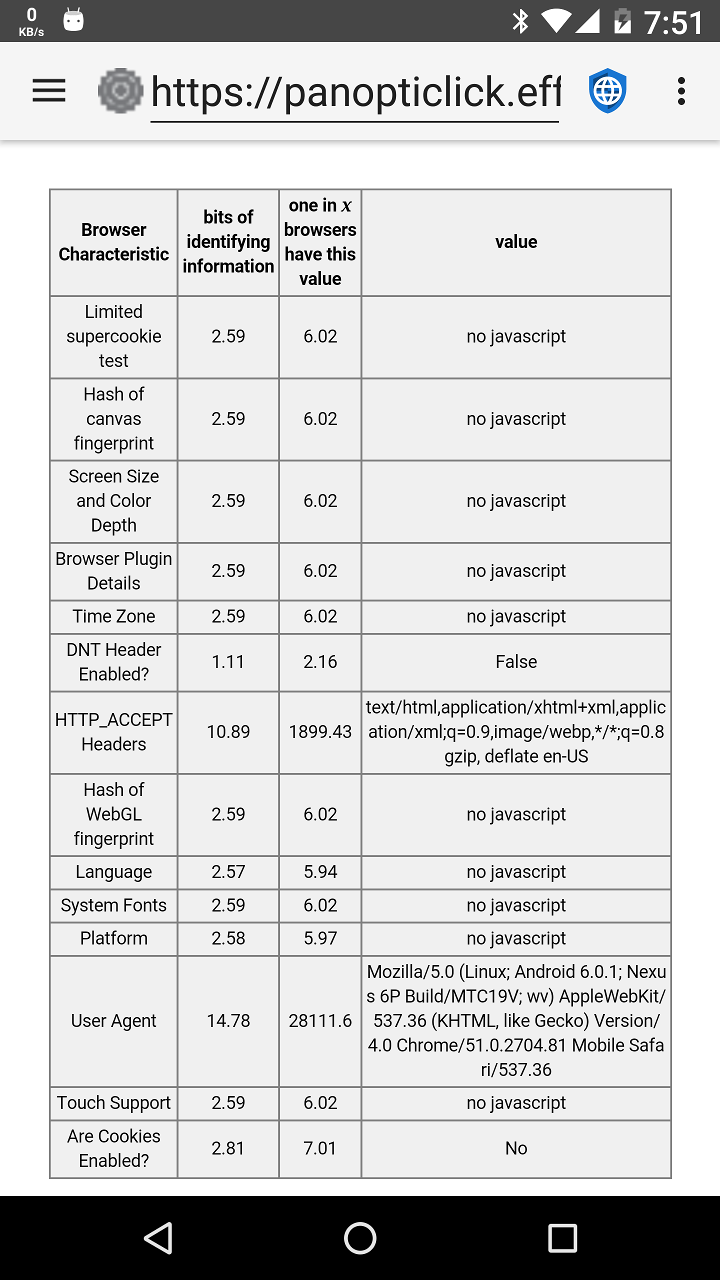
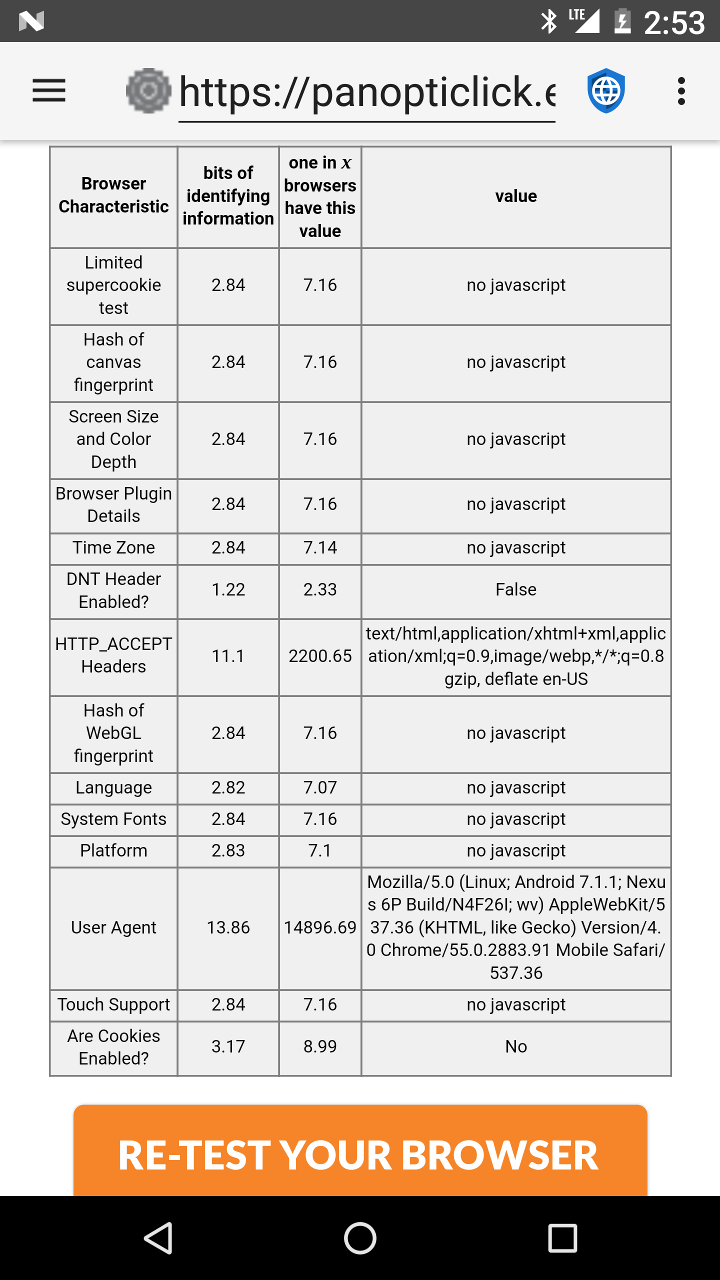
Update Guide → User Agent.  Also update the list of user agents.

diff --git a/app/src/main/assets/en/guide_user_agent.html b/app/src/main/assets/en/guide_user_agent.html
@@ -17,56 +17,47 @@
   along with Privacy Browser.  If not, see <http://www.gnu.org/licenses/>. -->
 
 <html>
-<head>
-<!-- We have to make an image into its own block to center it. -->
-<style>
-    h3 {
-        color: 0D4781;
-    }
+    <head>
+        <!-- We have to make an image into its own block to center it. -->
+        <style>
+            h3 {
+                color: 0D4781;
+            }
 
-    img.center {
-        display: block;
-        margin-left: auto;
-        margin-right: auto;
-    }
-</style>
-</head>
 
-<body>
-<h3>Browser Identification</h3>
+            img.center {
+                display: block;
+                margin-left: auto;
+                margin-right: auto;
+            }
+        </style>
+    </head>
 
-<p>When web browsers connect to websites, they send a user agent, which identifies the browser and the
-    rendering capabilities it possesses. They website can use this information to decide which version of the
-    website to send to the browser. For example, many websites have different versions for desktop and
-    mobile browsers.</p>
+    <body>
+        <h3>Browser Identification</h3>
 
-<p>By default, Privacy Browser uses the built-in user agent that comes with the WebView installed on the
-    device. You can see what it is by going to the <strong>Settings</strong> screen and setting the <strong>User
-    agent</strong> to <strong>WebView Default</strong>. The screenshot below shows a Nexus 6P running Android 6.0.1
-    with Android System WebView 51.0.2704.81 installed.</p>
+        <p>When web browsers connect to websites, they send a user agent, which identifies the browser and the rendering capabilities it possesses. The web server can use this information to decide which version of the
+            website to send to the browser. For example, many websites have different versions for desktop and mobile browsers.</p>
 
-<img class="center" src="images/user_agent.png" height="640" width="360">
+        <p>By default, Privacy Browser uses its own user agent, which is PrivacyBrowser/1.0. This sends a minimum of information to the web server. Because web servers do not recognize this to be a mobile user agent,
+            they typically display the desktop version of the site.</p>
 
-<p>There is enough information in the user agent that sometimes only a few visitors to a website will be the same. If the user agent
-    is combined with another piece of non-unique identifying information, often it results in a unique fingerprint.
-    The Electronic Frontier Foundation created a tool called <a href="https://panopticlick.eff.org/">Panopticlick</a>
-    to demonstrate how much information can be gleaned from these sources. If this test is run with JavaScript enabled the
-    amount of information that is disclosed increases greatly. <a href="https://www.browserleaks.com">Browser Leaks</a> and
-    <a href="https://amiunique.org/">Am I Unique</a> are also good sources of information.</p>
+        <p>By comparison, WebView&rsquo;s default user agent divulges a large amount of information about the hardware and softare of the device. On the <strong>Settings</strong> screen, selecting <strong>WebView Default</strong> as the
+            <strong>User agent</strong> displays the user agent that will be sent. The screenshot below shows a Nexus 6P running Android 7.1.1 with Android System WebView 55.0.2883.91 installed.  Most web servers will recognize this as
+            a mobile browser and will display the mobile version of the site if they have one.</p>
 
-<img class="center" src="images/panopticlick.png" height=640" width="360">
+        <img class="center" src="images/user_agent.png" height="640" width="360">
 
-<p>Privacy Browser allows you to change the user agent. There are several preset options that match common browsers and operating systems.
-    Privacy Browser defaults to its own user agent, which is simply PrivacyBrowser/1.0. For tracking purposes, anything that is rare is easier
-    to track. If Privacy Browser becomes common and many people use PrivacyBrowser/1.0 as their user agent, it will be a good choice for privacy.
-    Firefox or Chrome are the most common user agents, but they auto-update and their version numbers change so quickly
-    that it is likely the user agents included in Privacy Browser will often be out of step with the majority of user agents in the
-    server logs.</p>
+        <p>There is enough information in the user agent that sometimes only a few visitors to a website will be the same. If the user agent is combined with another piece of non-unique identifying information, often it results in a unique fingerprint.
+            The Electronic Frontier Foundation created a tool called <a href="https://panopticlick.eff.org/">Panopticlick</a> to demonstrate how much information can be gleaned from these sources. If this test is run with JavaScript enabled the
+            amount of information that is disclosed increases greatly. <a href="https://www.browserleaks.com">Browser Leaks</a> and <a href="https://amiunique.org/">Am I Unique</a> are also good sources of information.</p>
 
-<p>A second reason to change the user agent is to convince the web server to send the desktop version of the web page, which often works
-    better on modern smart phones than the mobile version. For this purpose, PrivacyBrowser/1.0 works well, because web servers typically
-    default to the desktop version unless they recognize a phone browser agent.</p>
+        <img class="center" src="images/panopticlick.png" height=640" width="360">
 
-<p>Android's WebView does not allow the user agent to be blank. If it is, WebView simply sends the default user-agent to the server.</p>
-</body>
+        <p>There are several preset user agents that match common browsers and operating systems. For browser fingerprinting purposes, anything that is rare is easier to track. If Privacy Browser becomes common and many people use PrivacyBrowser/1.0
+            as their user agent, it will be a good choice for privacy. Firefox or Chrome are the most common user agents, but they auto-update and their version numbers change so quickly that it is likely the user agents included in Privacy Browser
+            will often be out of step with the majority of user agents in the server logs.</p>
+
+        <p>Android's WebView does not allow the user agent to be blank. If it is, WebView simply sends the default user agent to the server.</p>
+    </body>
 </html>
